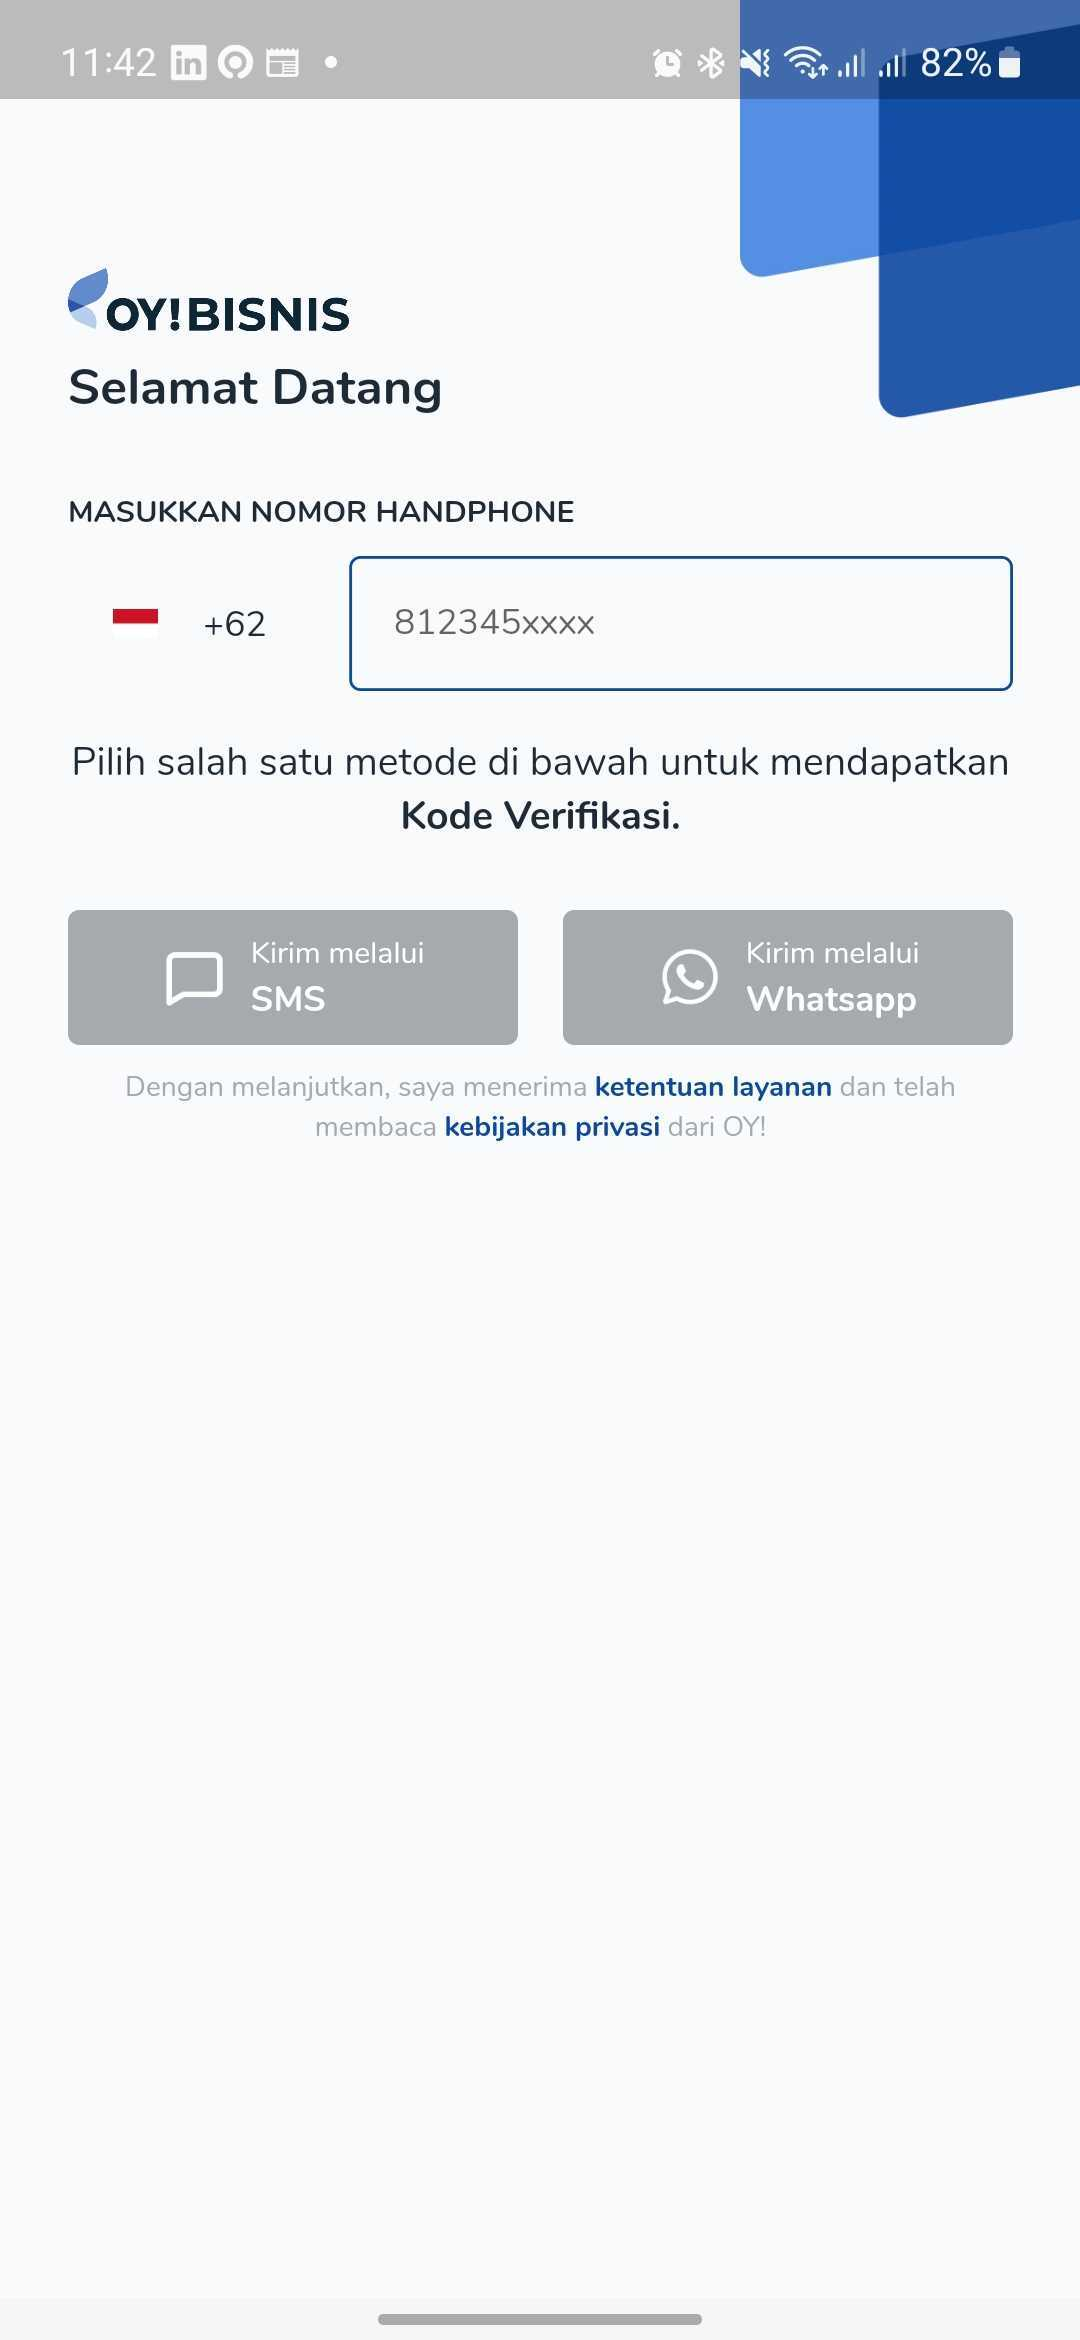
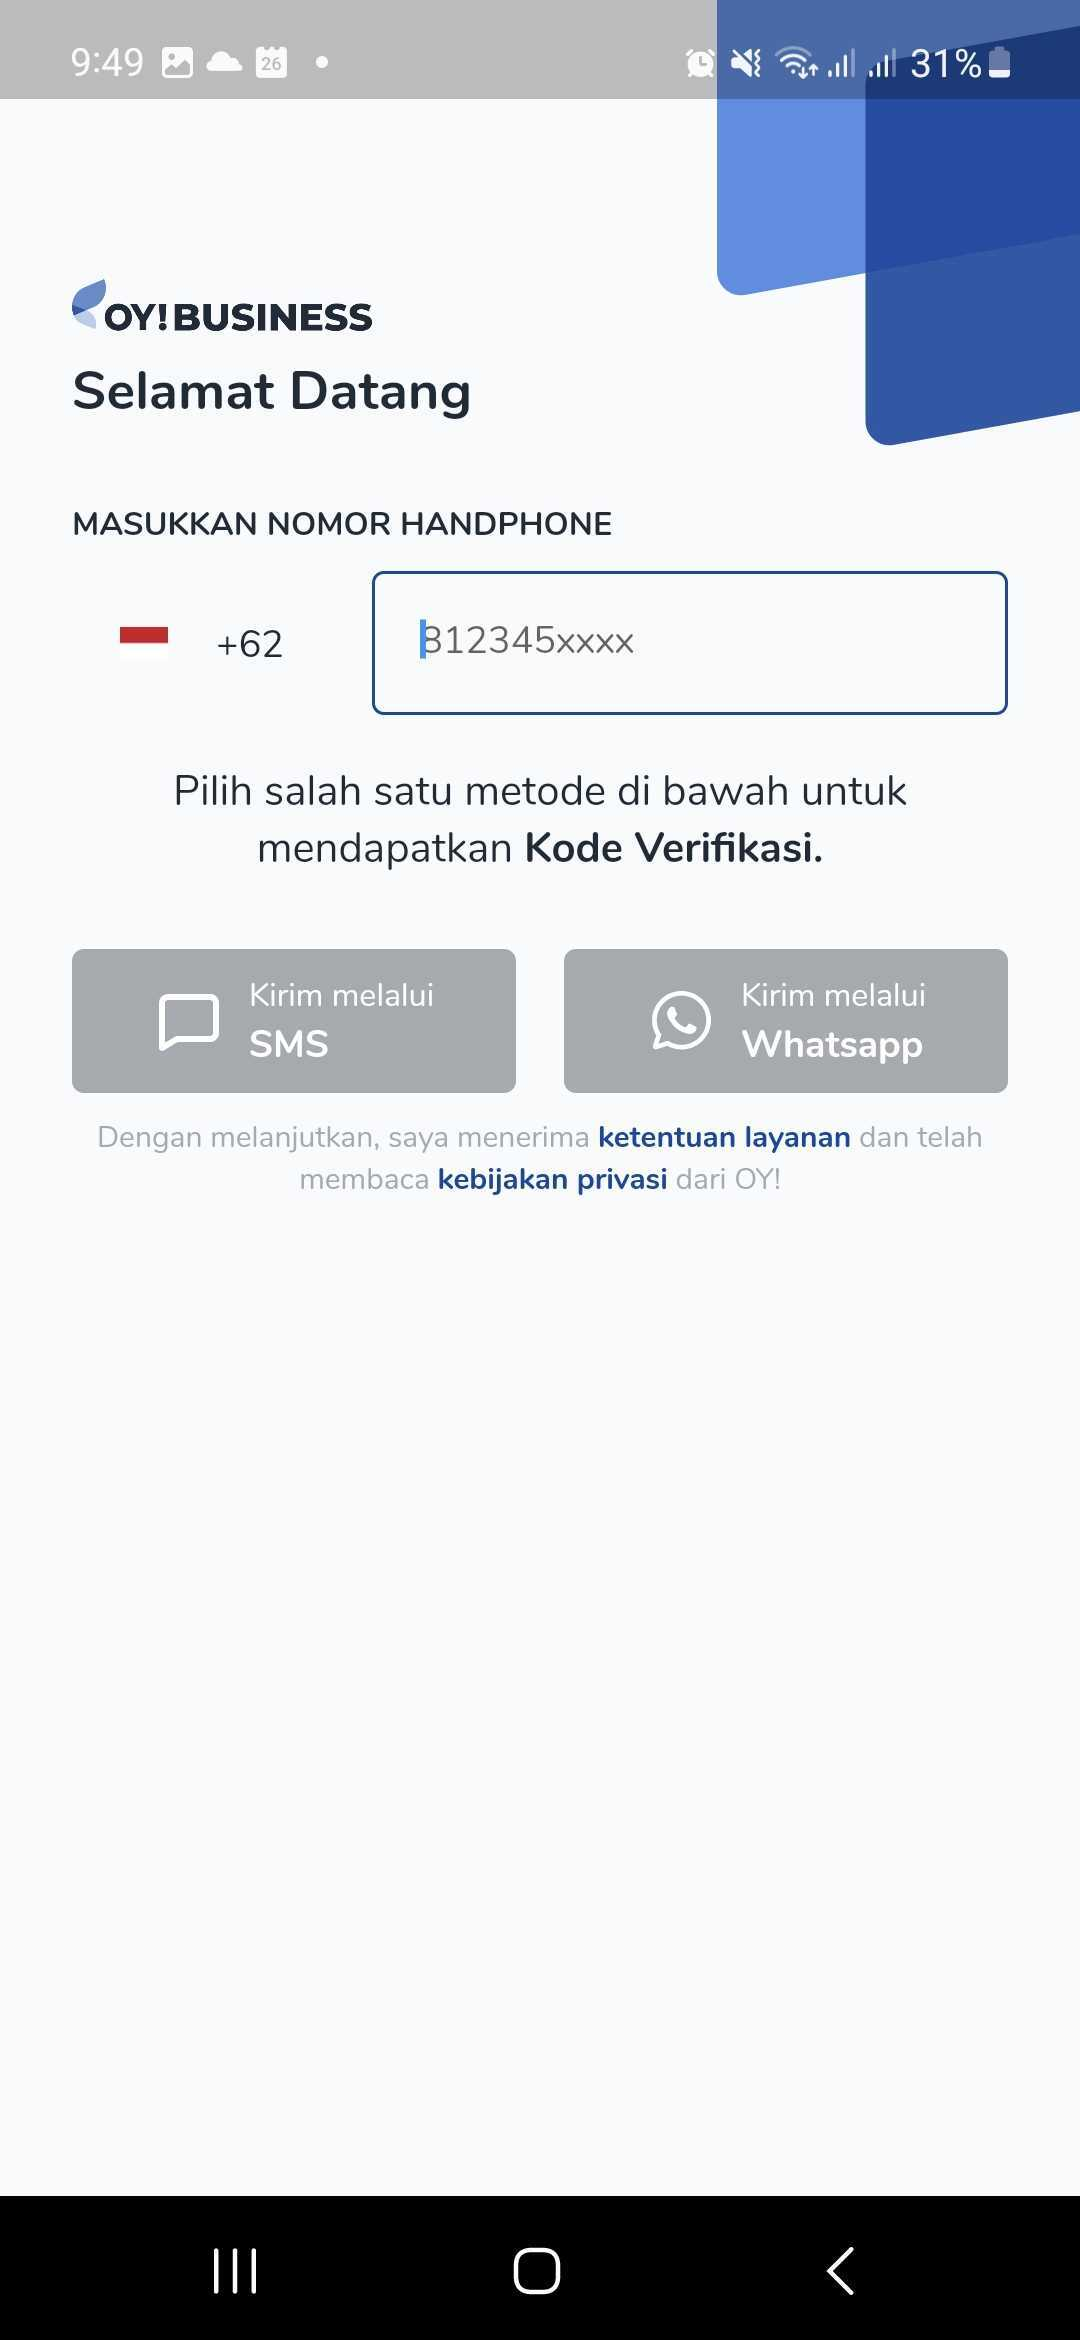
no message

diff --git a/source/includes/_business-app.md b/source/includes/_business-app.md
@@ -1,12 +1,12 @@
-# OY! Bisnis App
+# OY! Business App
 
-## OY! Bisnis App
+## OY! Business App
 
-Great news for you who always in mobility mode but you need to access our dashboard! Now you can access your OY! dashboard from the tip of your finger. OY! Bisnis offer you with easy access to OY! Dashboard, so you can do your financial activities everywhere you are, without opening your laptop or PC. In this app, you can see your balance, account statement, transaction status, send money and also receive money. Yes, doing transaction is now easier than before!
+Great news for you who always in mobility mode but you need to access our dashboard! Now you can access your OY! dashboard from the tip of your finger. OY! Business offers you with easy access to OY! Dashboard, so you can do your financial activities everywhere you are, without opening your laptop or PC. In this app, you can see your balance, account statement, transaction status, send money and also receive money. Yes, doing transaction is now easier than before!
 
 ### Register and KYB
 
-1. Open your OY! Bisnis app in your Android phone.
+1. Open your OY! Business app in your Android phone.
 1. If it is your first time opening this application, you have to input your phone number.
 1. Then, app will shows list of accounts that are tied to the phone number you entered before.
 1. If you want to create a new account, tap “Buat Sekarang”. Then follow the instruction.
@@ -14,39 +14,39 @@ Great news for you who always in mobility mode but you need to access our dashbo
 
 ### Login
 
-1. Open your OY! Bisnis app in your Android phone.
+1. Open your OY! Business app in your Android phone.
 1. If it is your first time opening this application, you will need to input your phone number to verify your account.
 
 ![OY! Business App input phone number](images/oy_bisnis_app_input_phone_number.jpg)
 
 1. Next, select which method for sending OTP. Make sure to input the right phone number. Then, please input the OTP number we just sent you.
 
-![OY! Business App input OTP](images/oy_bisnis_app_input_OTP.jpg)
+![OY! Business App input OTP](images/oy_bisnis_app_otp.jpg)
 
 1. If the phone number is not yet registed in OY!, you will be required to create a new account.
 
-![OY! Business App register page](images/oy_bisnis_app_create_new_account.jpg)
+![OY! Business App register page](images/oy_bisnis_app_register.jpg)
 
 1. However, if your phone number have been registered to OY! before, the app will displays list of accounts that are tied to the phone number you entered before.
 
-![OY! Business App select account page](images/oy_bisnis_app_select_account.jpg)
+![OY! Business App select account page](images/oy_bisnis_app_account.jpg)
 
 1. Select an account you want to log in to.
 1. First time logging in, you will be required to create a new PIN. This PIN will be used to log in to that account in the business app environment.
 1. Once you have successfully logged in, you will be directed to homepage. Here, you can see your balance and see your latest transaction.
 
-![OY! Business App Homepage](images/oy_bisnis_app_homepage.jpg)
+![OY! Business App Homepage](images/oy_bisnis_app_new_homepage_done_kyb.png) 
 
 
 ### Create Payment Link
 
 1. In the homepage tap “Transaksi Sekarang” button.
 
-![OY! Business App Homepage](images/oy_bisnis_app_homepage.jpg)
+![OY! Business App Homepage](images/oy_bisnis_app_new_homepage_done_kyb.png) 
 
 1. Then, select “Tagih Uang”.
 
-![OY! Business App Select Transaction](images/oy_bisnis_app_pilih_transaksi.jpg)
+![OY! Business App Select Transaction](images/oy_bisnis_app_select_transaction.png)
 
 1. You will see your history of payment links and its transaction history. Then, tap “Buat Link Pembayaran” button in the bottom right.
 
@@ -68,11 +68,11 @@ Great news for you who always in mobility mode but you need to access our dashbo
 
 1. In the homepage tap “Transaksi Sekarang” button.
 
-![OY! Business App Homepage](images/oy_bisnis_app_homepage.jpg)
+![OY! Business App Homepage](images/oy_bisnis_app_new_homepage_done_kyb.png) 
 
 1. Then, select “Kirim Uang”.
 
-![OY! Business App Select Transaction](images/oy_bisnis_app_pilih_transaksi.jpg)
+![OY! Business App Select Transaction](images/oy_bisnis_app_select_transaction.png)
 
 1. You will see your bulk disbursement campaign history. Then, tap “Buat Disbursement” button in the bottom right.
 
@@ -80,11 +80,11 @@ Great news for you who always in mobility mode but you need to access our dashbo
 
 1. Create your Bulk Disbursement campaign. First, fill out your campaign details.
 
-![OY! Business App Campaign Detail](images/oy_bisnis_disbursement_campaign_name.jpg)
+![OY! Business App Campaign Detail](images/oy_bisnis_dibsursement_campaign_detail.jpg)
 
 1. Next, fill the recipient data (bank, bank account number, amount, recipient email, phone number, note).
 
-![OY! Business App Recipient Detail](images/oy_bisnis_disbursement_campaign_detail.jpg)
+![OY! Business App Recipient Detail](images/oy_bisnis_disbursement_campaign_name.jpg)
 
 1. Next, check on your recipient list. If you want to add more recipient, click on "Tambah Transaksi" button.
 
@@ -92,7 +92,7 @@ Great news for you who always in mobility mode but you need to access our dashbo
 
 1. Confirm your bulk disursement campaign. In this page you can ensure your campaign detail and your recipient data are correct before submitting the campaign.
 
-![OY! Business App Detail Campaign](images/oy_bisnis_disbursement_detail_campaign.jpg)
+![OY! Business App Detail Campaign](images/oy_bisnis_dibsursement_detail_campaign.jpg)
 
 1. Your Bulk Disbursement campaign has been created and will be displayed on the Bulk Disbursement campaign history page. You may wait for your approver to approve the bulk disbursement so we can execute the transaction.
 

diff --git a/source/includes/_accepting-payments.md b/source/includes/_accepting-payments.md
@@ -1342,7 +1342,7 @@ Refund features allow you to refund a successful e-wallet transaction to your en
 
 ### How to Use
 
-1. Log in to your OY! Bisnis dashboard with your username and password that you registered with.
+1. Log in to your OY! Business dashboard with your username and password that you registered with.
 2. Click on the product page you desired.
   - Payment Link : Click “Payment Link” and choose “One Time”/“Reusable”
   - VA Aggregator : Click “Virtual Account” and choose “Incoming Payment”
